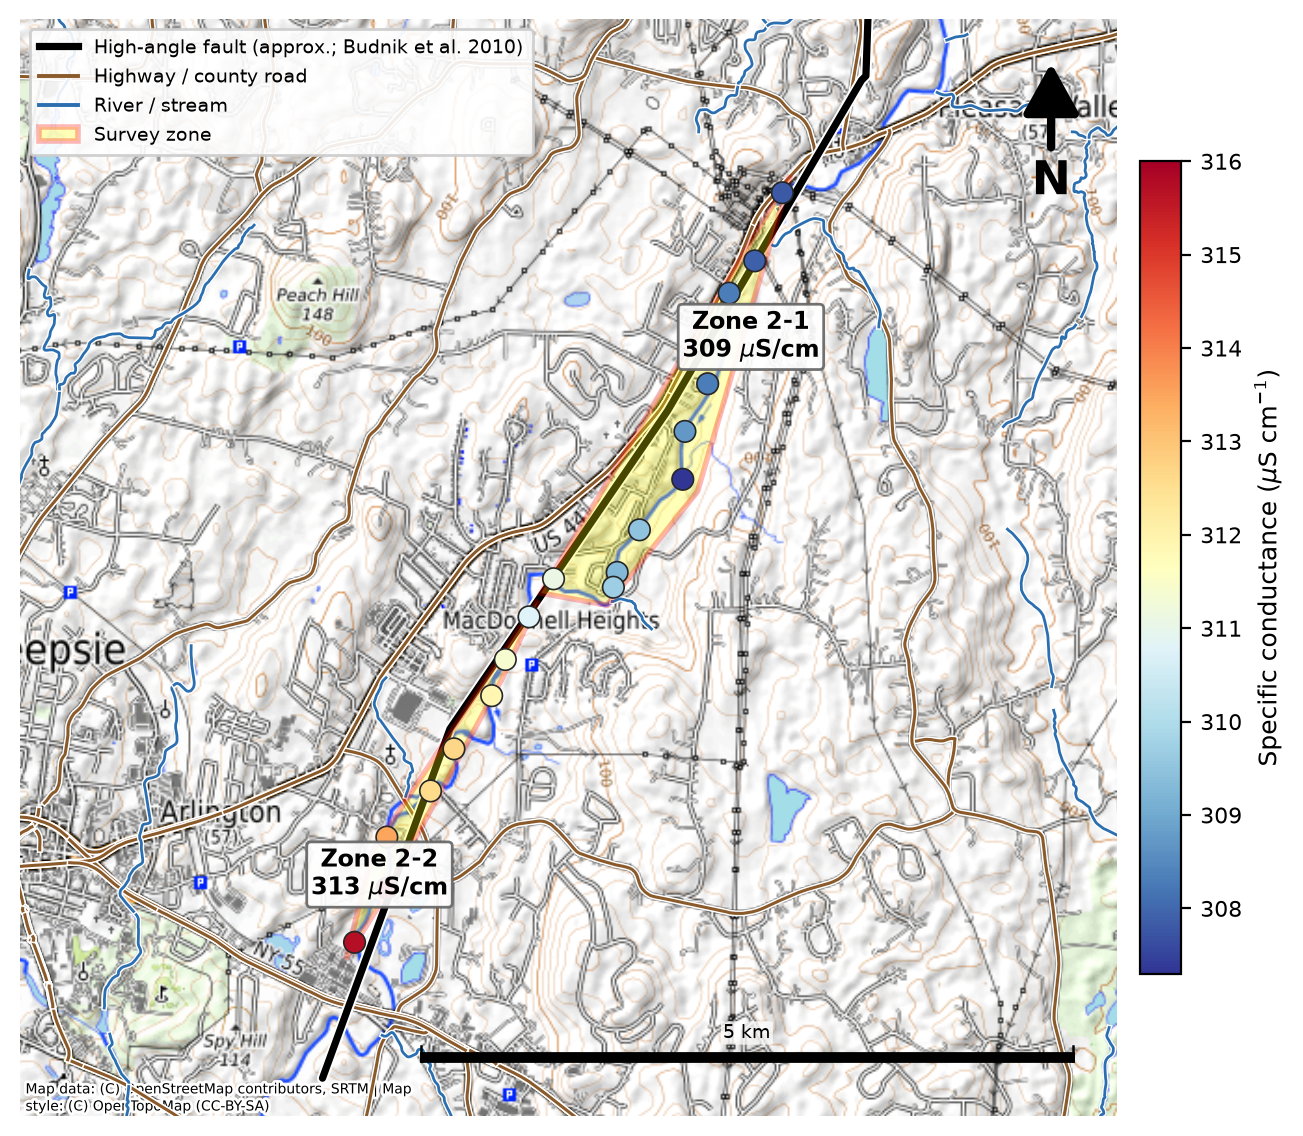
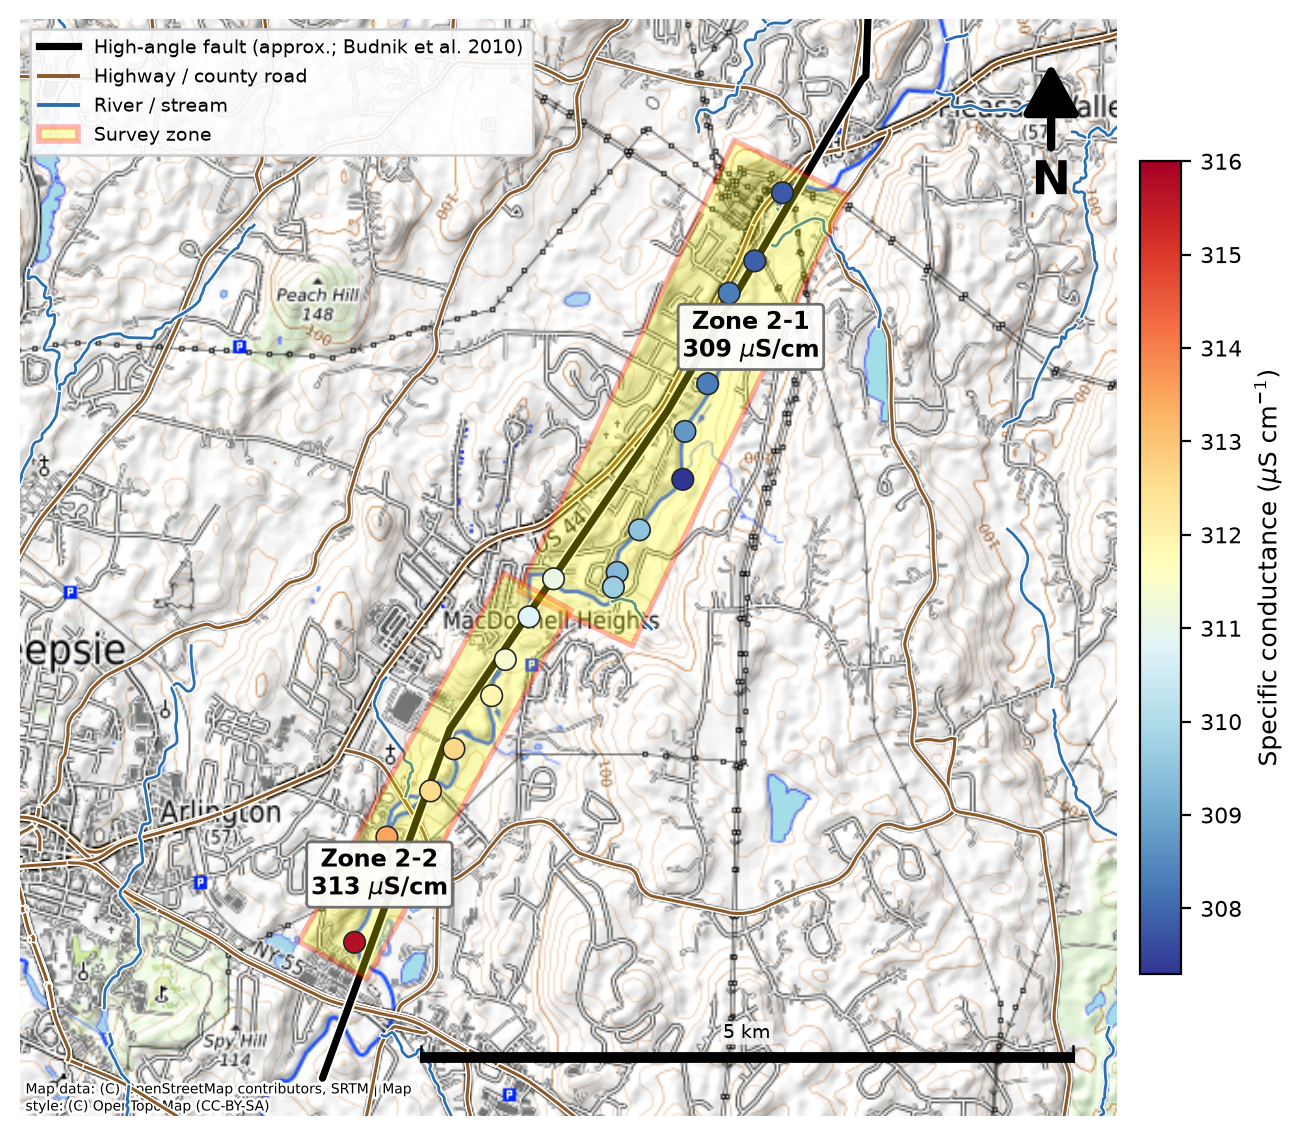
Site maps: draw zones as rotated rectangles (matching the original figures)
Comparing to the original PowerPoint figures showed the zones should be clean
rectangles oriented along the reach, not convex hulls. The stats-zone
membership was already correct and sequential (3-1..3-4); only the rendering
was wrong.

- Replace convex-hull + buffer with an oriented bounding box (PCA-aligned
  rotated rectangle) per zone, with a small margin
- Fixes the Site 3 overlap and the tight-hull look in one change

Changed region(s): [[0.2763, 0.1232, 0.6754, 0.7394], [0.2149, 0.8011, 0.307, 0.8627]]

diff --git a/src/maps.py b/src/maps.py
@@ -208,6 +208,27 @@ def _zone_patch(ax, xs, ys, pad, facecolor="yellow", alpha=0.28,
                             edgecolor=edgecolor, lw=2.0, zorder=zorder))
 
 
+def _zone_obb(ax, pts, pad, facecolor="yellow", alpha=0.28, edgecolor="red"):
+    """Draw a zone as a rotated rectangle (oriented bounding box) aligned with
+    the reach, matching the original hand-drawn figures. `pad` (metres) adds a
+    margin around the points on all sides."""
+    pts = np.asarray(pts, dtype=float)
+    c = pts.mean(axis=0)
+    if len(pts) >= 2:
+        _, _, vt = np.linalg.svd(pts - c)
+        u, v = vt[0], vt[1]
+    else:
+        u, v = np.array([1.0, 0.0]), np.array([0.0, 1.0])
+    p1 = (pts - c) @ u
+    p2 = (pts - c) @ v
+    a0, a1 = p1.min() - pad, p1.max() + pad
+    b0, b1 = p2.min() - pad, p2.max() + pad
+    corners = [c + a * u + b * v for a, b in
+               [(a0, b0), (a1, b0), (a1, b1), (a0, b1)]]
+    ax.add_patch(MplPolygon(corners, closed=True, facecolor=facecolor,
+                            alpha=alpha, edgecolor=edgecolor, lw=2.0, zorder=4))
+
+
 def _fault_line(ax, fault_pts, cx0, cy0, half):
     """Fit and draw a dashed fault line through this site's InFault points."""
     if len(fault_pts) < 2:
@@ -270,25 +291,16 @@ def draw_site(site, df, zframes, cstats):
     ec_all = site_pts["EC"].to_numpy(dtype=float)
     norm = Normalize(vmin=ec_all.min(), vmax=ec_all.max())
 
-    # highlighted zones. Buffer each hull generously, but cap the buffer to the
-    # gap to the nearest other zone so neighbours don't overlap (Site 3's zones
-    # are interleaved along the reach).
-    from scipy.spatial import cKDTree
+    # highlighted zones drawn as rotated rectangles (oriented along the reach),
+    # matching the original figures. Membership is the survey zone; the box is
+    # the oriented bounding box of its points plus a margin.
     zone_xy = {z: np.array([merc(lo, la) for lo, la
                in zip(zframes[z]["lon"], zframes[z]["lat"])]) for z in zones}
     centroids = {}
     for z in zones:
         pts_z = zone_xy[z]
-        others = [zone_xy[o] for o in zones if o != z]
-        if others:
-            dmin = cKDTree(np.vstack(others)).query(pts_z)[0].min()
-            pad = min(span * 0.14, 0.42 * dmin)
-        else:
-            pad = span * 0.14
-        xs, ys = pts_z[:, 0], pts_z[:, 1]
-        for rx, ry in _runs(xs, ys):
-            _zone_patch(ax, rx, ry, pad=pad)
-        centroids[z] = (xs.mean(), ys.mean())
+        _zone_obb(ax, pts_z, pad=span * 0.035)
+        centroids[z] = (pts_z[:, 0].mean(), pts_z[:, 1].mean())
 
     # zone labels (id + mean EC), splayed radially outward to avoid overlap
     for z in zones:
